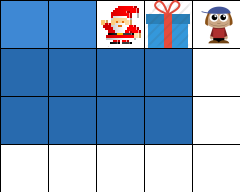
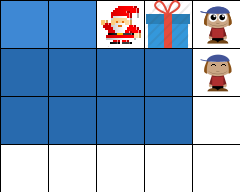
Pracownia10. Cos jest zrypane.

Changed region(s): [[0.8458, 0.2812, 0.9917, 0.5], [0.8458, 0.0312, 0.9917, 0.25]]

diff --git a/PracowniaJava/netbeans/pracownia10_packman/src/Santa/EntitiesPositions.java b/PracowniaJava/netbeans/pracownia10_packman/src/Santa/EntitiesPositions.java
@@ -7,12 +7,22 @@ public class EntitiesPositions
         m_width = p_width;
         m_height = p_height;
         m_board = new int[p_width * p_height];
-        System.out.println(p_width * p_height);
     }
     
-    public boolean setPosition(int p_x, int p_y)
+    public synchronized boolean setSantaPosition(int p_x, int p_y)
     {
-        if(m_board[m_width * p_y + p_x] != 1)
+        if(m_board[m_width * p_y + p_x] != 1 || m_board[m_width * p_y + p_x] != 2)
+        {
+            m_board[m_width * p_y + p_x] = 2;
+            m_santaPosition = m_width * p_y + p_x;
+            return true;
+        }
+        return false;
+    }
+    
+    public synchronized boolean setPosition(int p_x, int p_y)
+    {
+        if(m_board[m_width * p_y + p_x] != 1 || m_board[m_width * p_y + p_x] != 2)
         {
             m_board[m_width * p_y + p_x] = 1;
             return true;
@@ -20,12 +30,52 @@ public class EntitiesPositions
         return false;
     }
     
-    public void unsetPosition(int p_x, int p_y)
+    public int isSantaInRadius(int p_x, int p_y)
+    {
+        for(int i = 0; i < m_board.length; ++i)
+        {
+            if(m_board[i] == 2)
+            {
+                int l_santaX = i % m_width;
+                int l_santaY = i / m_width;
+                int l_diffX  = Math.abs(l_santaX - p_x);
+                int l_diffY  = Math.abs(l_santaY - p_y);
+                int l_minDiff = Math.min(l_diffX, l_diffY);
+                if (l_diffX < 10)
+                {
+                    if (l_diffY < l_diffX)
+                    {
+                        if(l_santaY - p_y < 0)
+                        {
+                            return 0;
+                        }
+                        else
+                        {
+                            return 2;
+                        }
+                    }
+                    if(l_santaX - p_x < 0)
+                    {
+                        return 3;
+                    }
+                    else
+                    {
+                        return 1;
+                    }
+                }
+            }
+        }
+        return 4;
+    }
+    
+    public synchronized void unsetPosition(int p_x, int p_y)
     {
         m_board[m_width * p_y + p_x] = 0;
     }
     
     
+    
     private int m_width, m_height;
+    private int m_santaPosition;
     private int[] m_board;
 }

diff --git a/PracowniaJava/netbeans/pracownia10_packman/src/Threads/ChildThread.java b/PracowniaJava/netbeans/pracownia10_packman/src/Threads/ChildThread.java
@@ -13,6 +13,7 @@ public class ChildThread implements Runnable
         Random l_random = new Random();
         
         m_waitTimeInMs = 500 + l_random.nextInt(1500);
+        m_bedTimeInMs = 2000 + l_random.nextInt(3000);
     }
     
     @Override
@@ -20,22 +21,31 @@ public class ChildThread implements Runnable
     {
         while(true)
         {
-            Random l_random = new Random();
-            int l_move = l_random.nextInt(4);
-            switch(l_move)
+            m_child.playTime();
+            switch(selectBehavior())
             {
                 case 0:
                     m_child.moveUp();
                     break;
                 case 1:
-                    m_child.moveDown();
-                    break;
-                case 2:
-                    m_child.moveLeft();
-                    break;
-                case 3:
                     m_child.moveRight();
                     break;
+                case 2:
+                    m_child.moveDown();
+                    break;
+                case 3:
+                    m_child.moveLeft();
+                    break;
+                case 4:
+            {
+                System.out.println("SLEEP");
+                m_child.napTime();
+                try {
+                    Thread.sleep(m_bedTimeInMs);
+                } catch (InterruptedException ex) {
+                    Logger.getLogger(ChildThread.class.getName()).log(Level.SEVERE, null, ex);
+                }
+            }
             }
             try {
                 Thread.sleep(m_waitTimeInMs);
@@ -45,6 +55,29 @@ public class ChildThread implements Runnable
         }
     }
     
+    private int selectBehavior()
+    {
+        Random l_random = new Random();
+        int l_behavior = l_random.nextInt(50);
+        
+        if (l_behavior < 40 && m_child.iSeeSanta() != 4)
+        {
+            return m_child.iSeeSanta();
+        }
+        
+        if(l_behavior < 10)
+            return 0;
+        else if(l_behavior < 20)
+            return 1;
+        else if(l_behavior < 30)
+            return 2;
+        else if(l_behavior < 40)
+            return 3;
+        else
+            return 4;
+    }
+    
     private Child m_child;
-    private int m_waitTimeInMs = 500;
+    private int m_waitTimeInMs;
+    private int m_bedTimeInMs;
 }

diff --git a/PracowniaJava/netbeans/pracownia10_packman/src/Entity/Child.java b/PracowniaJava/netbeans/pracownia10_packman/src/Entity/Child.java
@@ -19,7 +19,11 @@ public class Child extends Entity
     @Override
     public void render(Screen p_screen)
     {
-        Sprite l_child = SpriteContainer.s_child;
+        Sprite l_child;
+        if(m_childIsSleeping)
+            l_child = SpriteContainer.s_childSleeping;
+        else
+            l_child = SpriteContainer.s_child;
         p_screen.applySprite(m_posX, m_posY, l_child);
     }
     
@@ -29,4 +33,21 @@ public class Child extends Entity
         setPosition((1 + l_random.nextInt(Game.s_gameWidth-2)) * (SpriteContainer.s_tileSize),
                     (1 + l_random.nextInt(Game.s_gameHeight-2)) * (SpriteContainer.s_tileSize));
     }
+    
+    public void napTime()
+    {
+        m_childIsSleeping = true;
+    }
+    
+    public void playTime()
+    {
+        m_childIsSleeping = false;
+    }
+    
+    public int iSeeSanta()
+    {
+        return m_board.isSantaInRadius(m_posX, m_posX);
+    }
+    
+    private boolean m_childIsSleeping = false;
 }

diff --git a/PracowniaJava/netbeans/pracownia10_packman/src/Sprites/SpriteContainer.java b/PracowniaJava/netbeans/pracownia10_packman/src/Sprites/SpriteContainer.java
@@ -7,6 +7,7 @@ public class SpriteContainer
    public static Sprite[][] s_terrain = SpriteLoader.cutTile("/res/terrain3.png", s_tileSize, s_tileSize);
    public static Sprite s_player = SpriteLoader.cutTile("/res/terrain3.png", s_tileSize, s_tileSize)[2][0];
    public static Sprite s_child = SpriteLoader.cutTile("/res/terrain3.png", s_tileSize, s_tileSize)[4][0];
+   public static Sprite s_childSleeping = SpriteLoader.cutTile("/res/terrain3.png", s_tileSize, s_tileSize)[4][1];
    
    
 }
